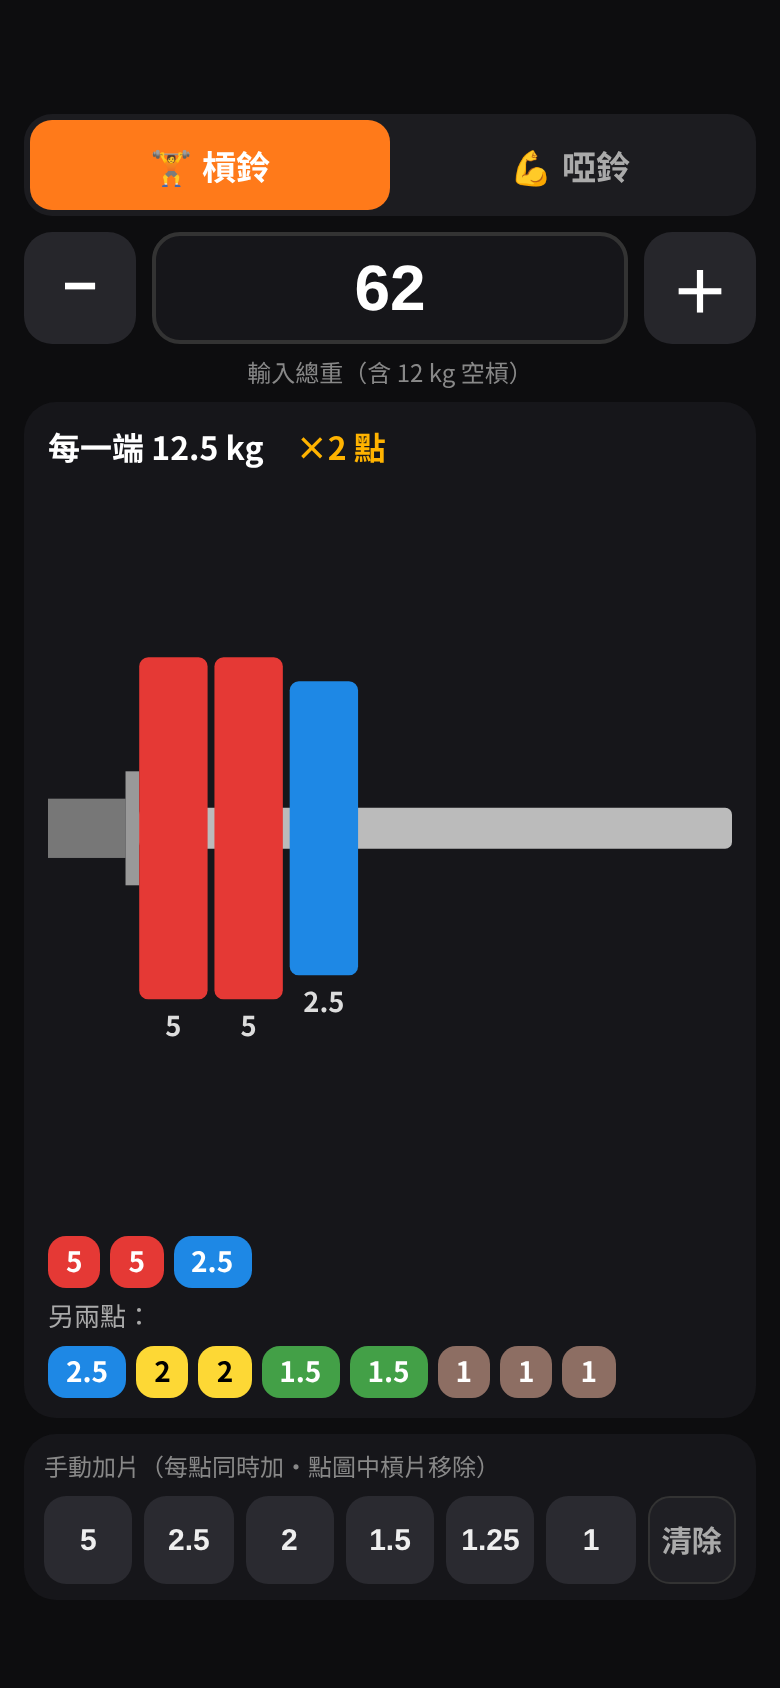
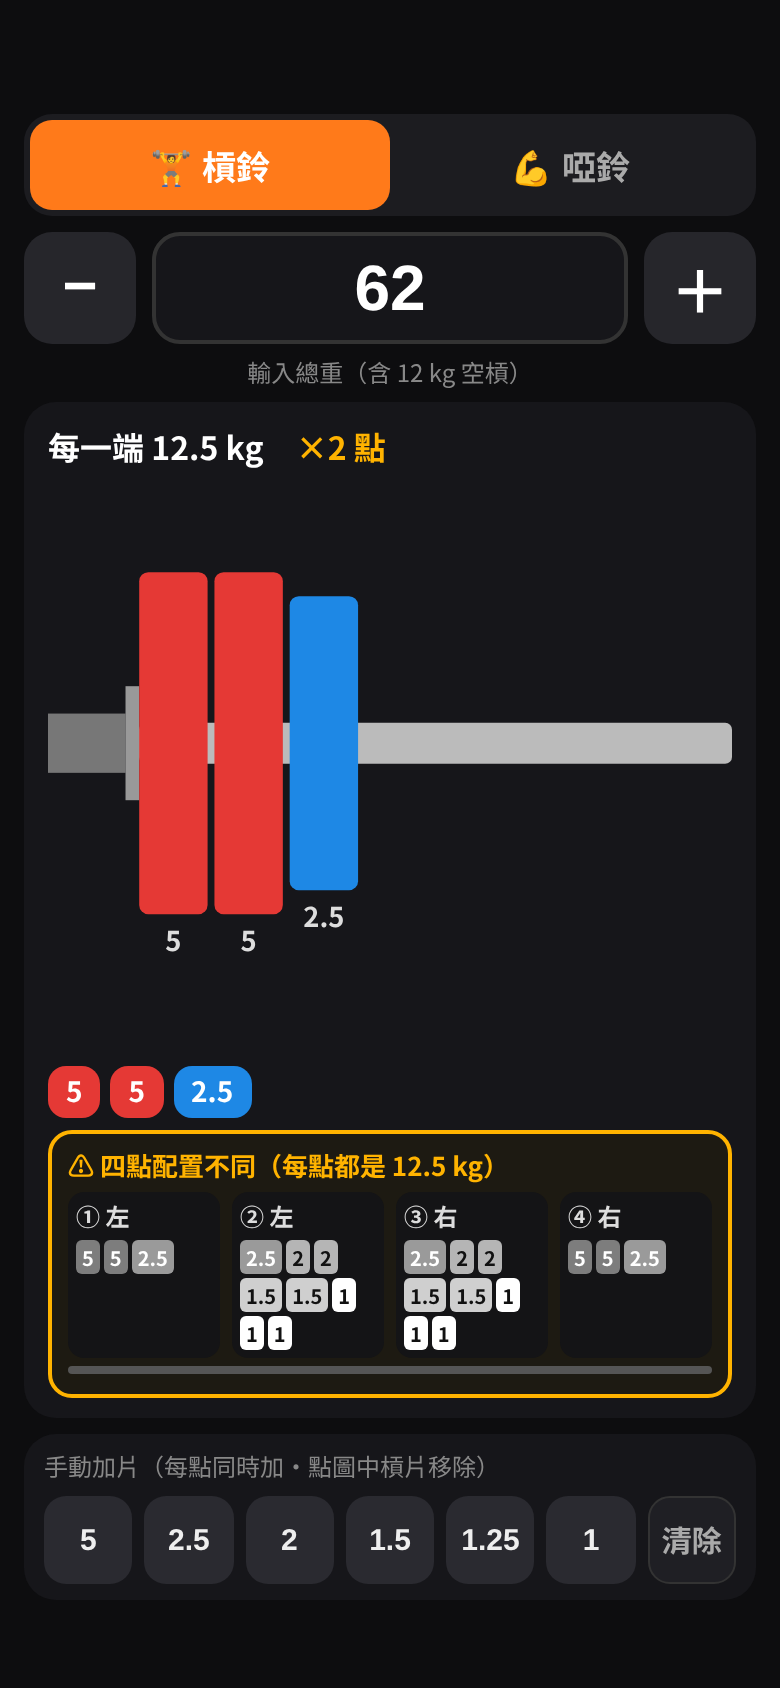
Mixed-loading layout panel, v14

Changed region(s): [[0.0615, 0.3389, 0.9538, 0.8318], [0.3385, 0.4313, 0.3692, 0.4929]]

diff --git a/sw.js b/sw.js
@@ -1,4 +1,4 @@
-const C='plates-v13',F=['./','index.html','data.js?v=13','manifest.json','icon-v8-180.png','apple-touch-icon.png','icon-192.png','icon-v8-512.png'];
+const C='plates-v14',F=['./','index.html','data.js?v=14','manifest.json','icon-v8-180.png','apple-touch-icon.png','icon-192.png','icon-v8-512.png'];
 self.addEventListener('install',e=>{self.skipWaiting();e.waitUntil(caches.open(C).then(c=>c.addAll(F)))});
 self.addEventListener('activate',e=>e.waitUntil(caches.keys().then(ks=>Promise.all(ks.filter(k=>k!==C).map(k=>caches.delete(k)))).then(()=>self.clients.claim())));
 self.addEventListener('fetch',e=>{const u=new URL(e.request.url);if(e.request.method!=='GET'||u.origin!==location.origin)return;
